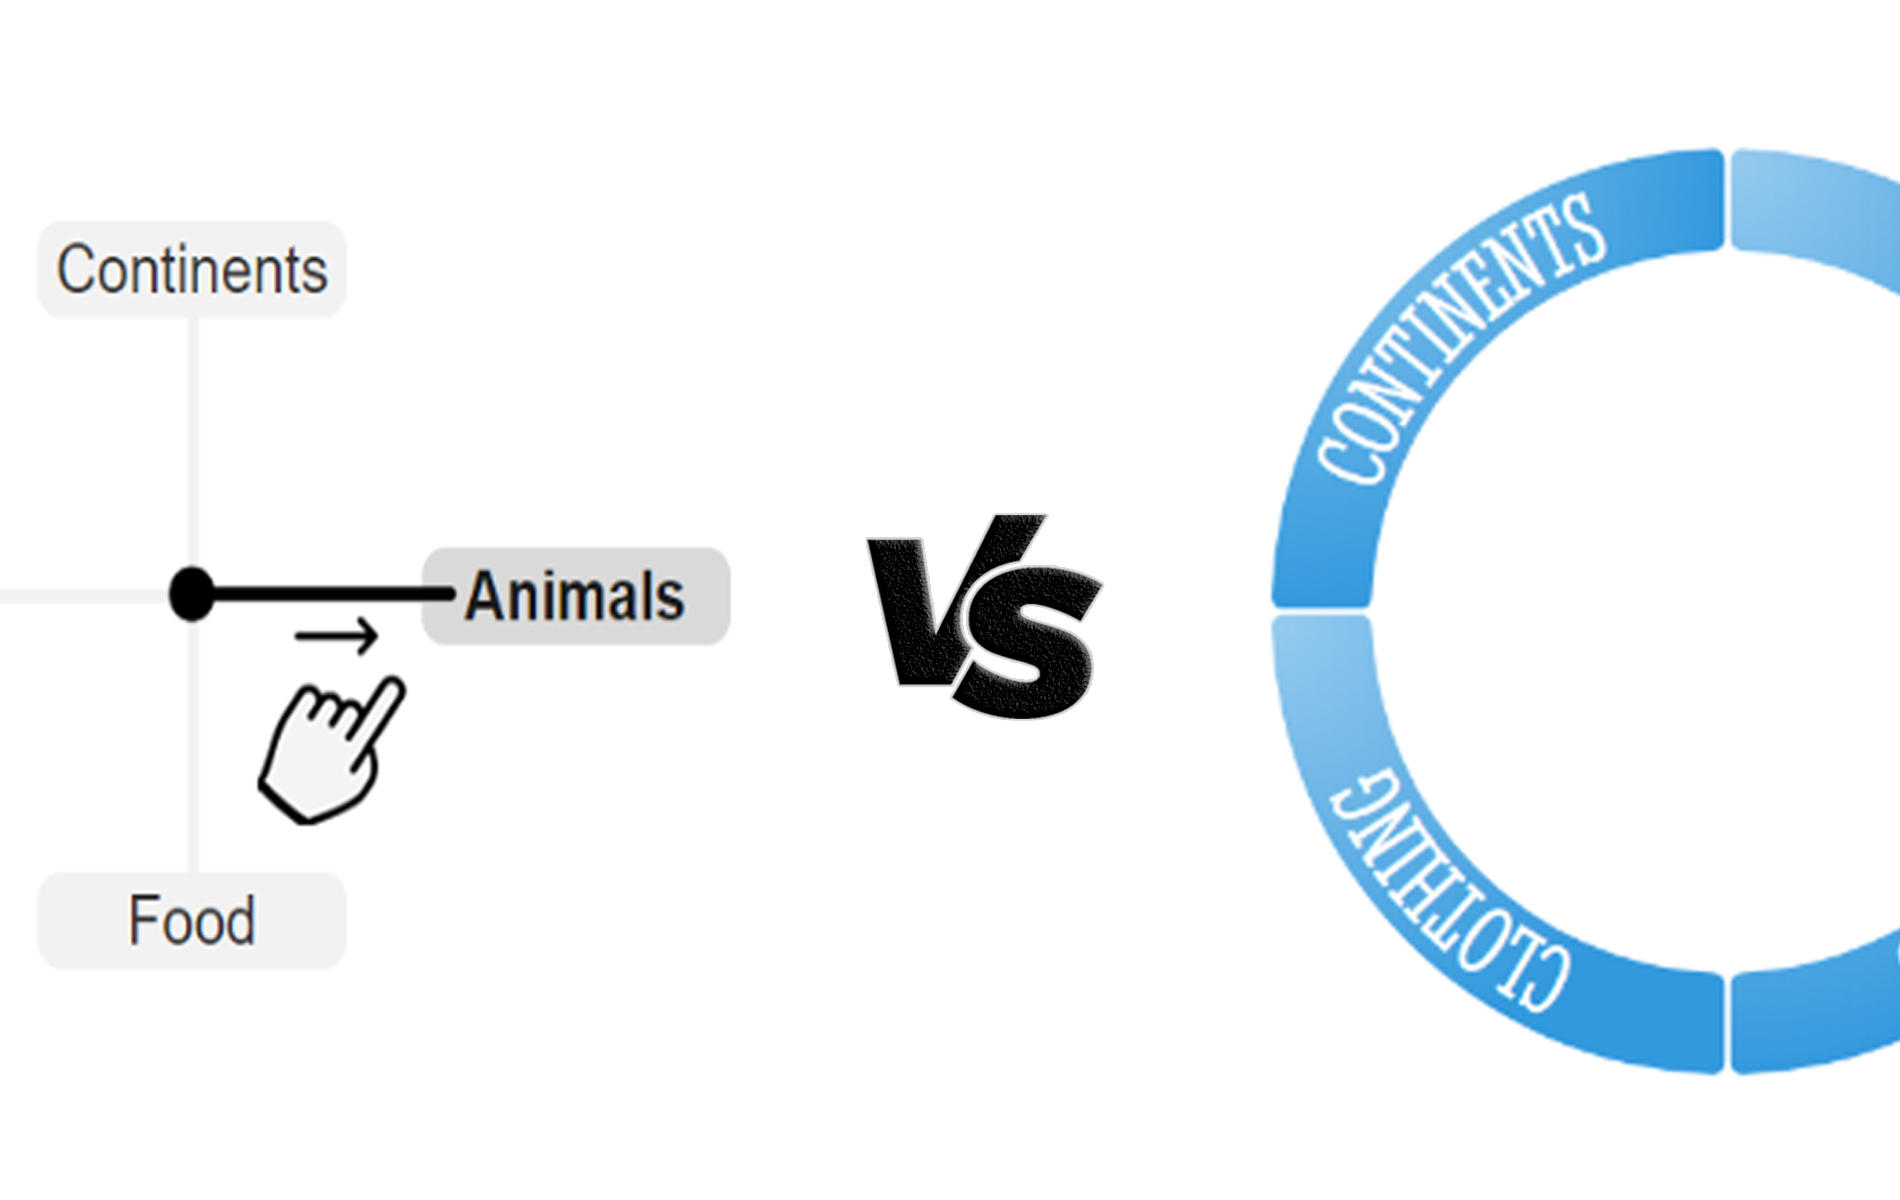
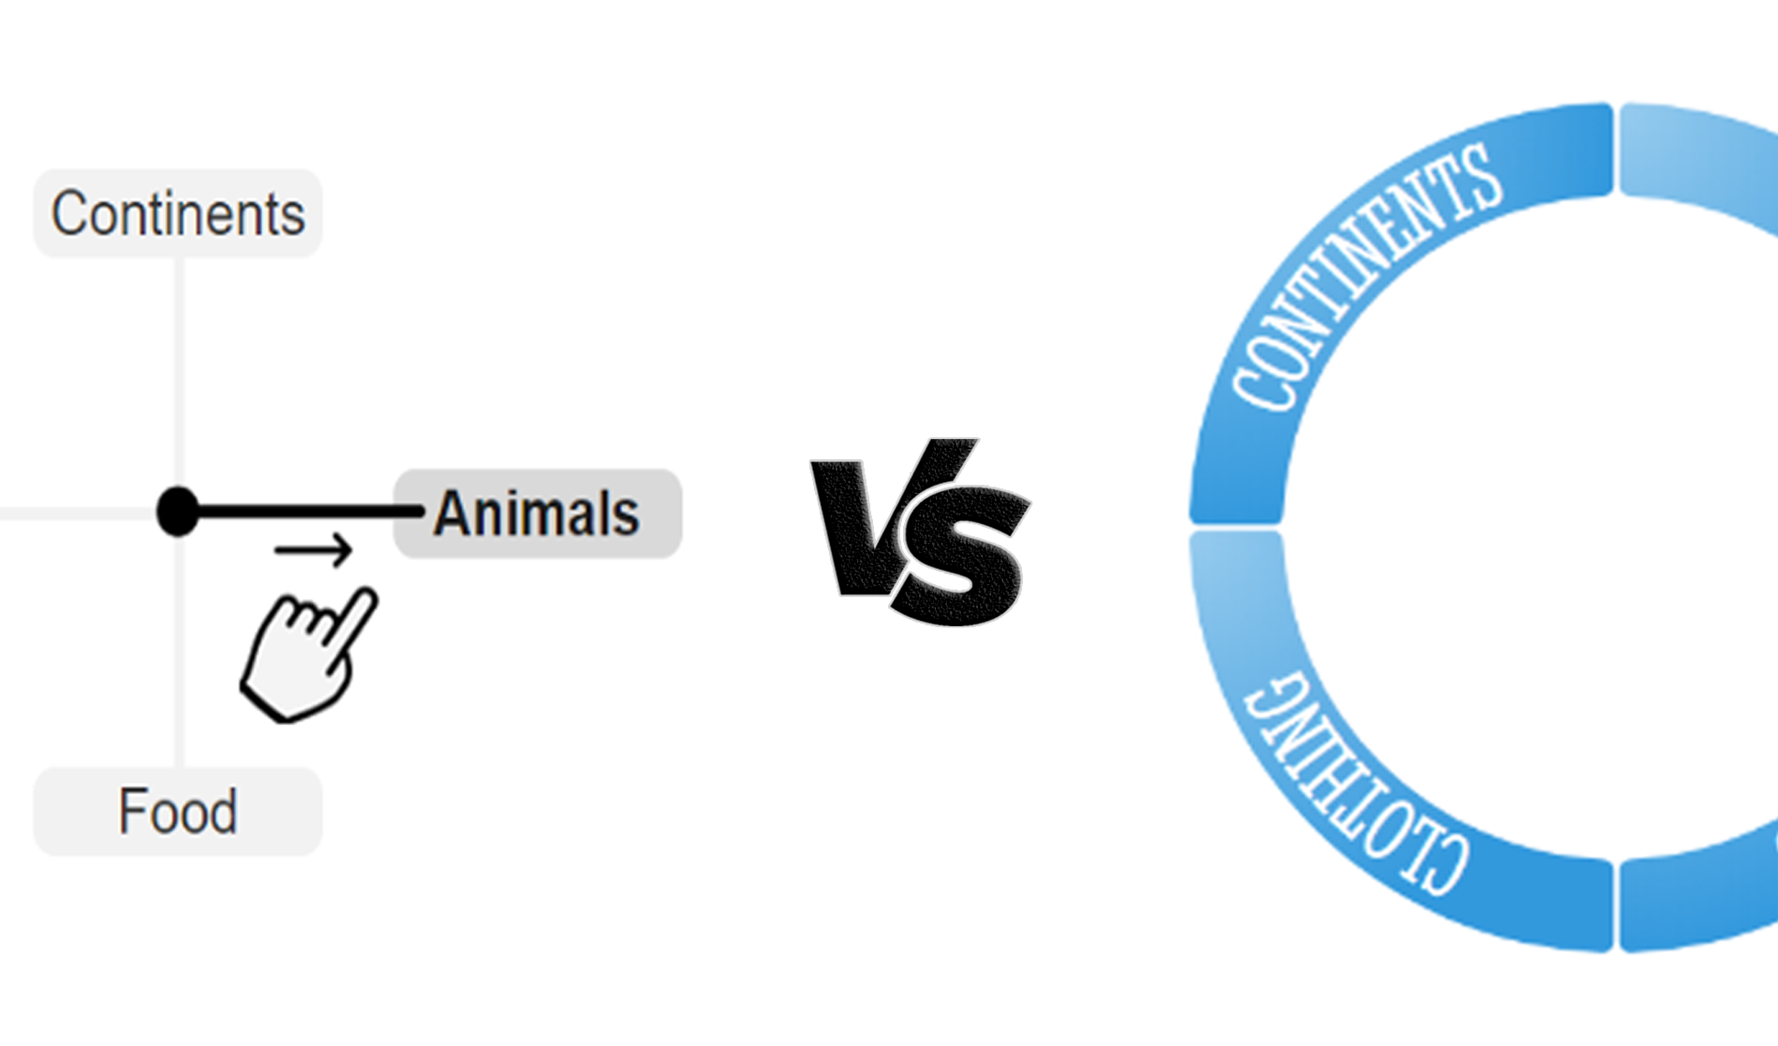
shrink images to increase load time

diff --git a/index.html b/index.html
@@ -874,7 +874,7 @@
                 <figure>
                     <img src="img/hci_experiment_marking_vs_radial_menu/participants.png" class="responsive">
                 </figure>
-                <p>We had participants do a simple pre-questionnaire like <a href="https://docs.google.com/document/d/1bpfn79nlfBssXMxfxc0awMcG2VWrP5F07-QXNS3xhpA/edit?usp=sharing" style="color:blue"> this.</a></p>    
+                <p>We had the participants do a simple pre-questionnaire like <a href="https://docs.google.com/document/d/1bpfn79nlfBssXMxfxc0awMcG2VWrP5F07-QXNS3xhpA/edit?usp=sharing" style="color:blue"> this.</a></p>    
                 <p>Based on the result gathered from the survey, we observed that there was an equal number of participants with prior experience in Marking menu and with previous experience in Radial menu. Students found to have prior experience in Marking menu rarely uses it (almost never) while those with experience in Radial menu either uses it rarely or not frequently (less than twice daily).</p>
                 <p>An interesting discovery is that half of the participants have experience in both menus, with three of them being university students and one being polytechnic student.</p>       
               </section>
